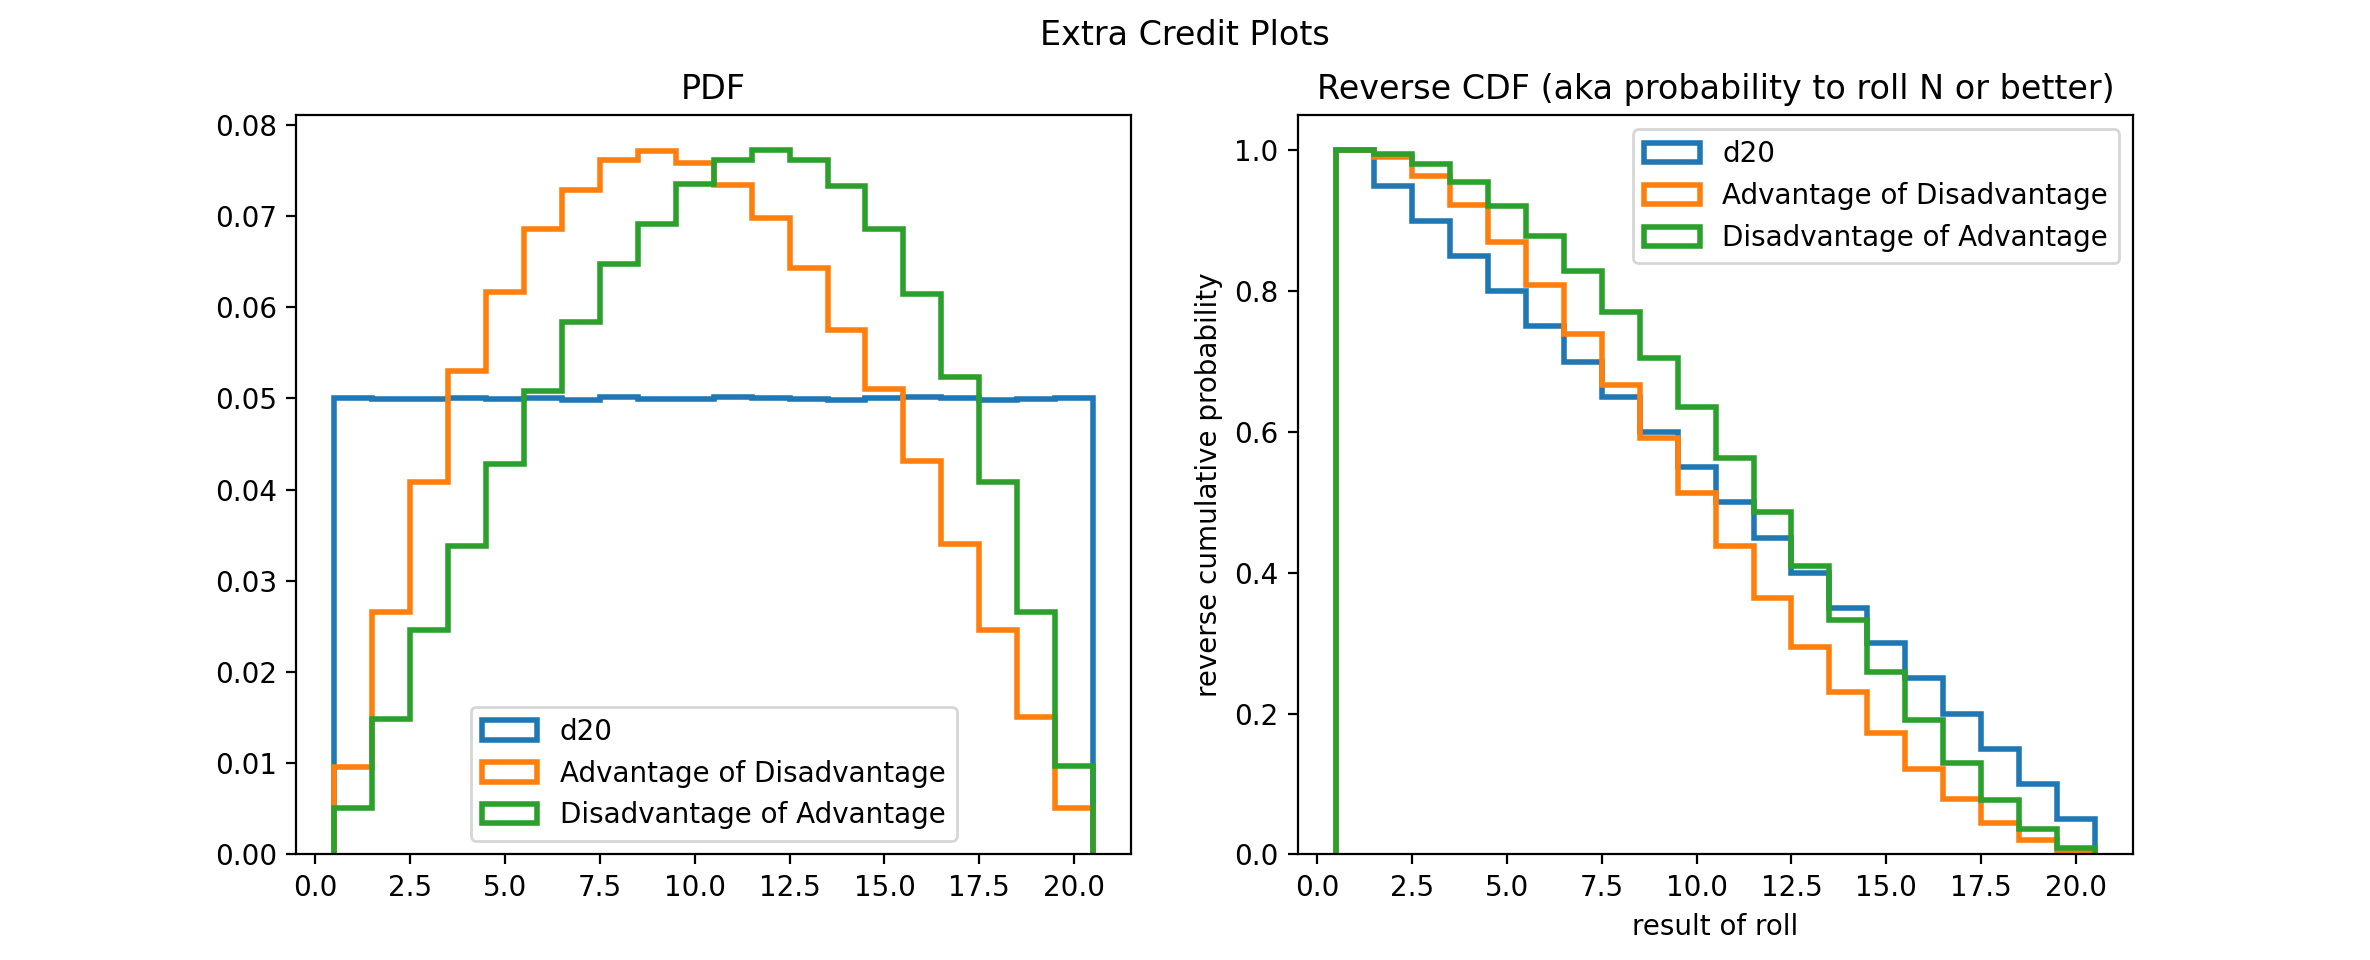
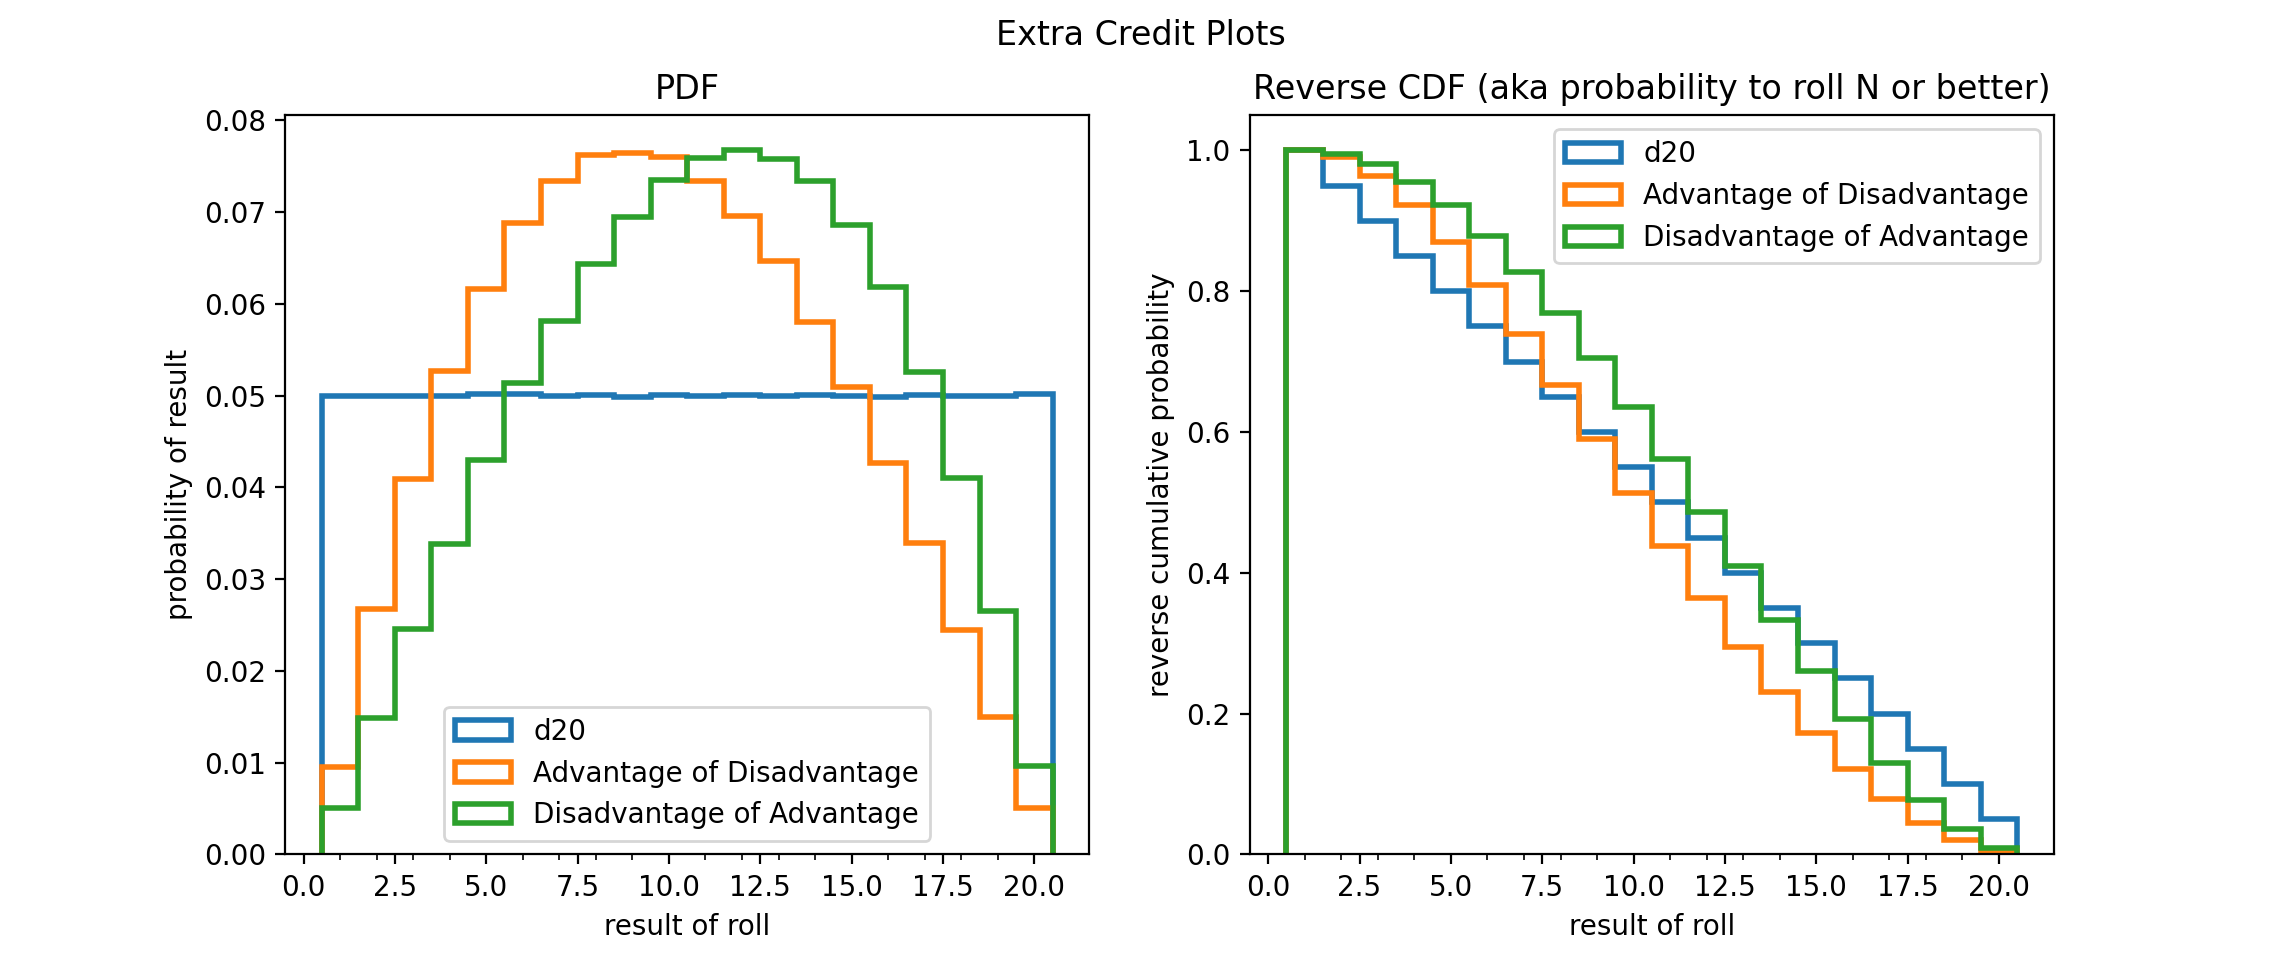
Add files via upload

diff --git a/extraCredit.py b/extraCredit.py
@@ -1,6 +1,8 @@
-# pete alonzi (datascientist@virginia.edu)
+# pete alonzi (datascientist@virginia.edu) (alonzi on github)
+# contributor: wshanley (on github)
 # a program to answer the fivethrityeight riddle
 # 2020-05-17
+# patch 1: 2020-05-18
 # jed told me to
 
 # vscode environment setup: https://code.visualstudio.com/docs/python/python-tutorial
@@ -17,21 +19,22 @@ N = 1000000 # number of die rolls (aka precision and runtime)
 d = 20 # number of sides on the die
 
 def adv(r1,r2):
-    ''' helper function to return advantage of two rolls '''
+    ''' helper function to return advantage of two rolls (flavor rename)'''
     return np.maximum(r1,r2)
 
 def dis(r1,r2):
-    ''' helper function to return disadvantage of two rolls '''
+    ''' helper function to return disadvantage of two rolls (flavor rename)'''
     return np.minimum(r1,r2)
 
-rollsREG = np.random.randint(1, d+1, (N, 4))
-rollsAOD = adv(dis(rollsREG[:,0], rollsREG[:,1]), dis(rollsREG[:,2], rollsREG[:,3]))
-rollsDOA = dis(adv(rollsREG[:,0], rollsREG[:,1]), adv(rollsREG[:,2], rollsREG[:,3]))
+roll4 = np.random.randint(1, d+1, (N, 4))
+rollsREG = [ i for r in roll4 for i in r ] # unroll for plotting
+rollsAOD = adv(dis(roll4[:,0], roll4[:,1]), dis(roll4[:,2], roll4[:,3]))
+rollsDOA = dis(adv(roll4[:,0], roll4[:,1]), adv(roll4[:,2], roll4[:,3]))
 
 # Help: I would love for someone to do the math and tell me where I should round off and/or what size error bars I should use on these numbers, I am too lazy to do the work
 # Show the results
 print()
-print('last rolls',rollsREG[-1,:])
+print('last rolls',rollsREG[-4:])
 print('regular expected roll                  ',np.mean(rollsREG))
 print('advantage of disadvantage expected roll',np.mean(rollsAOD))
 print('disadvantage of advantage expected roll',np.mean(rollsDOA))
@@ -43,8 +46,8 @@ print()
 fig, (ax1, ax2) = plt.subplots(1, 2)
 fig.suptitle('Extra Credit Plots')
 
-binning = [ i+0.5 for i in range(21)]
-xticks = range(0,21)
+binning = [ i+0.5 for i in range(d+1)]
+xticks = range(0,d+1)
 xlabels = [i if i%5 == 0 else "" for i in xticks]
 
 # generate PDF
